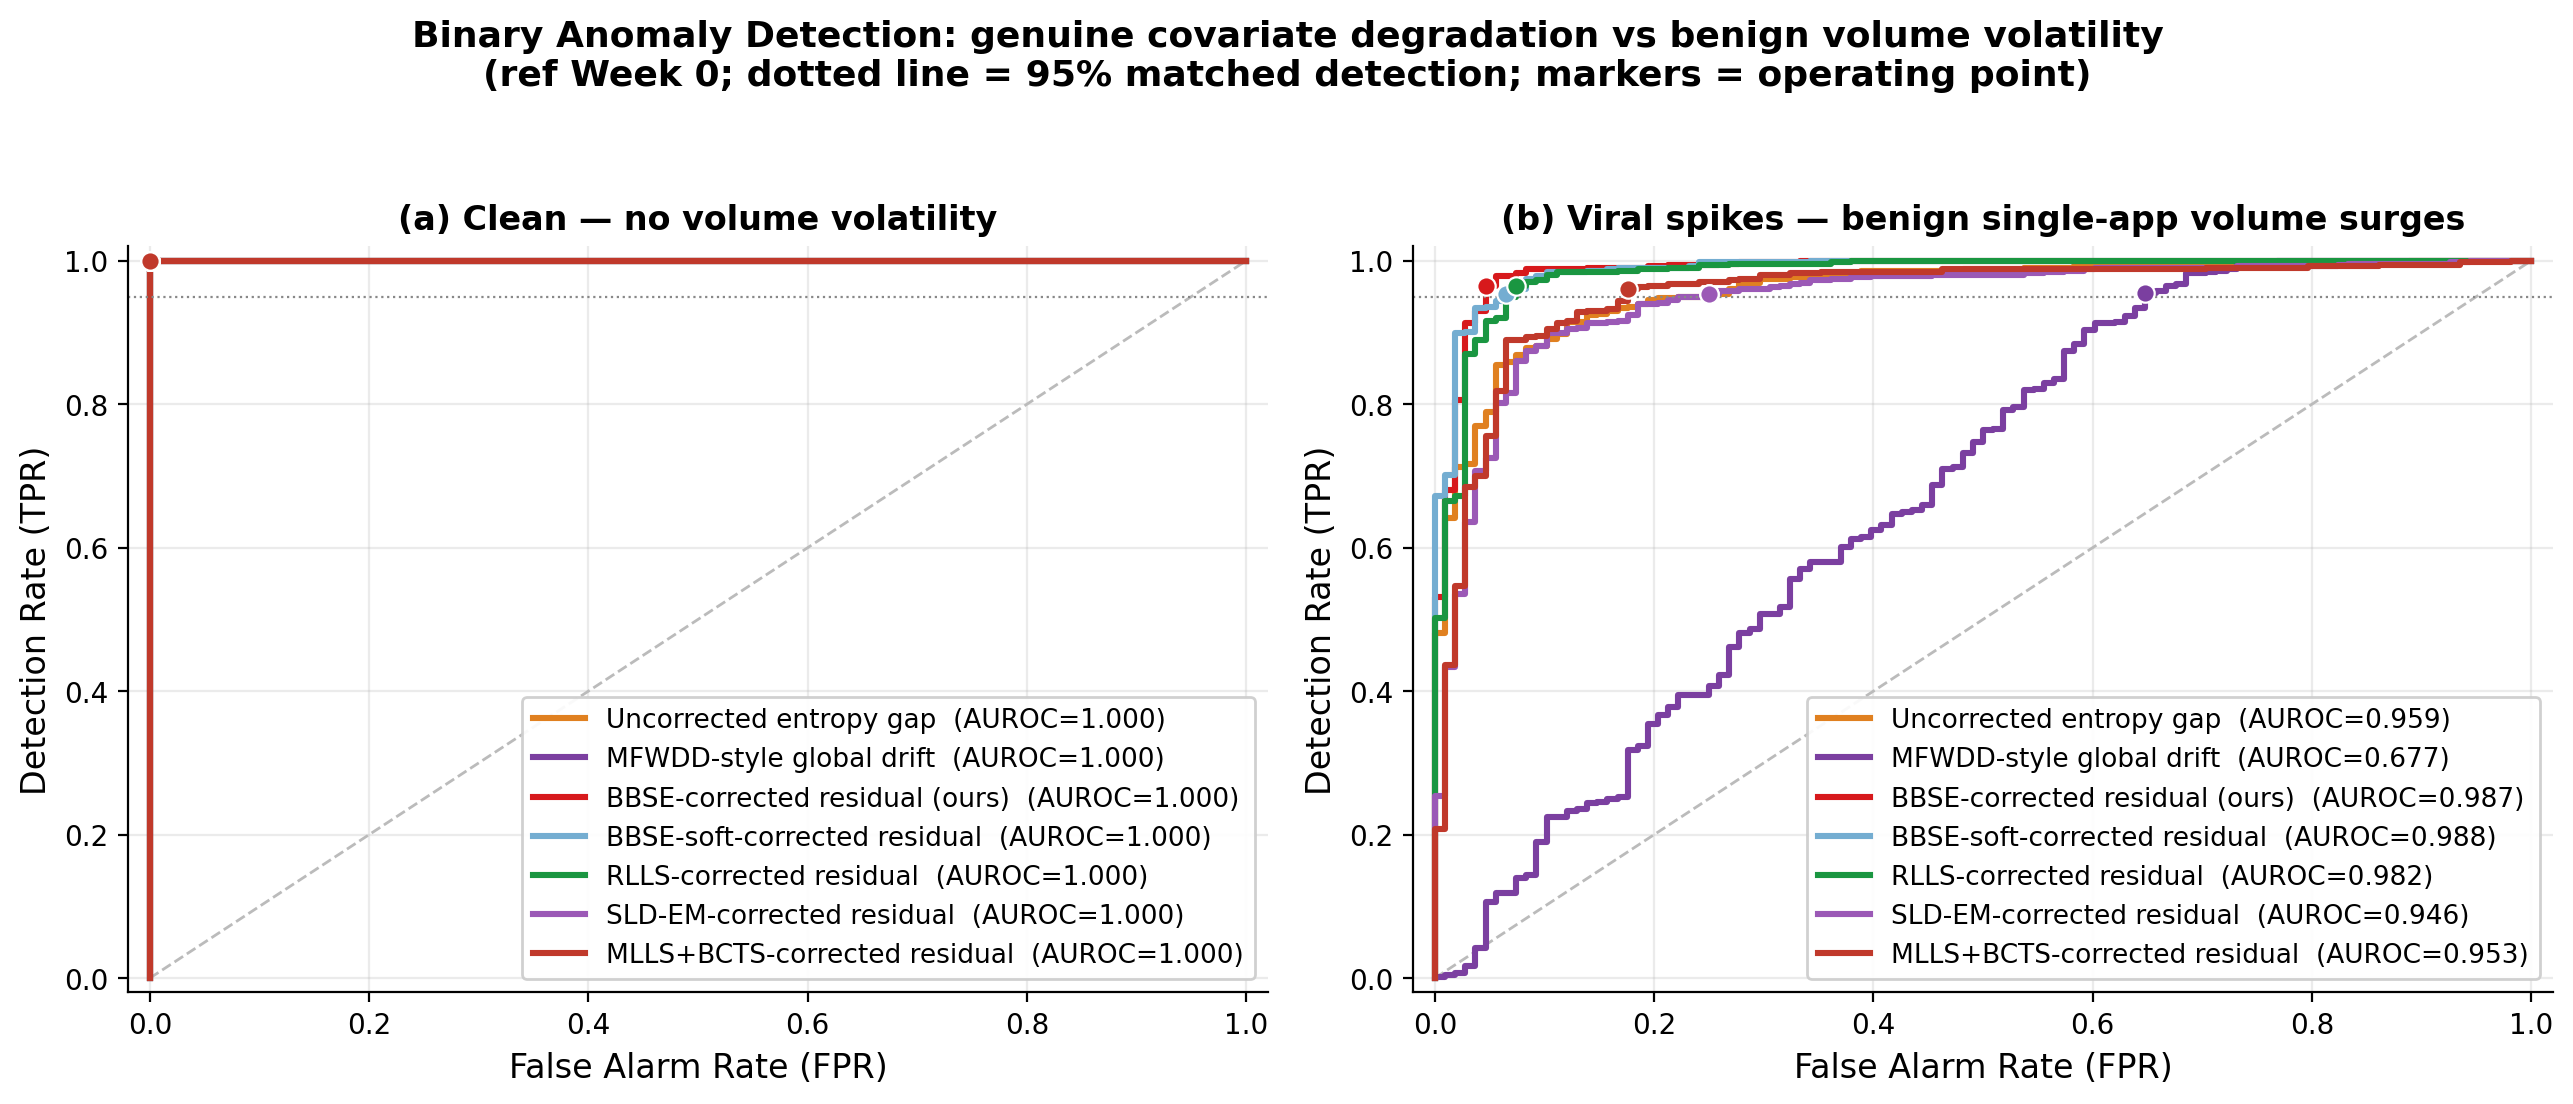
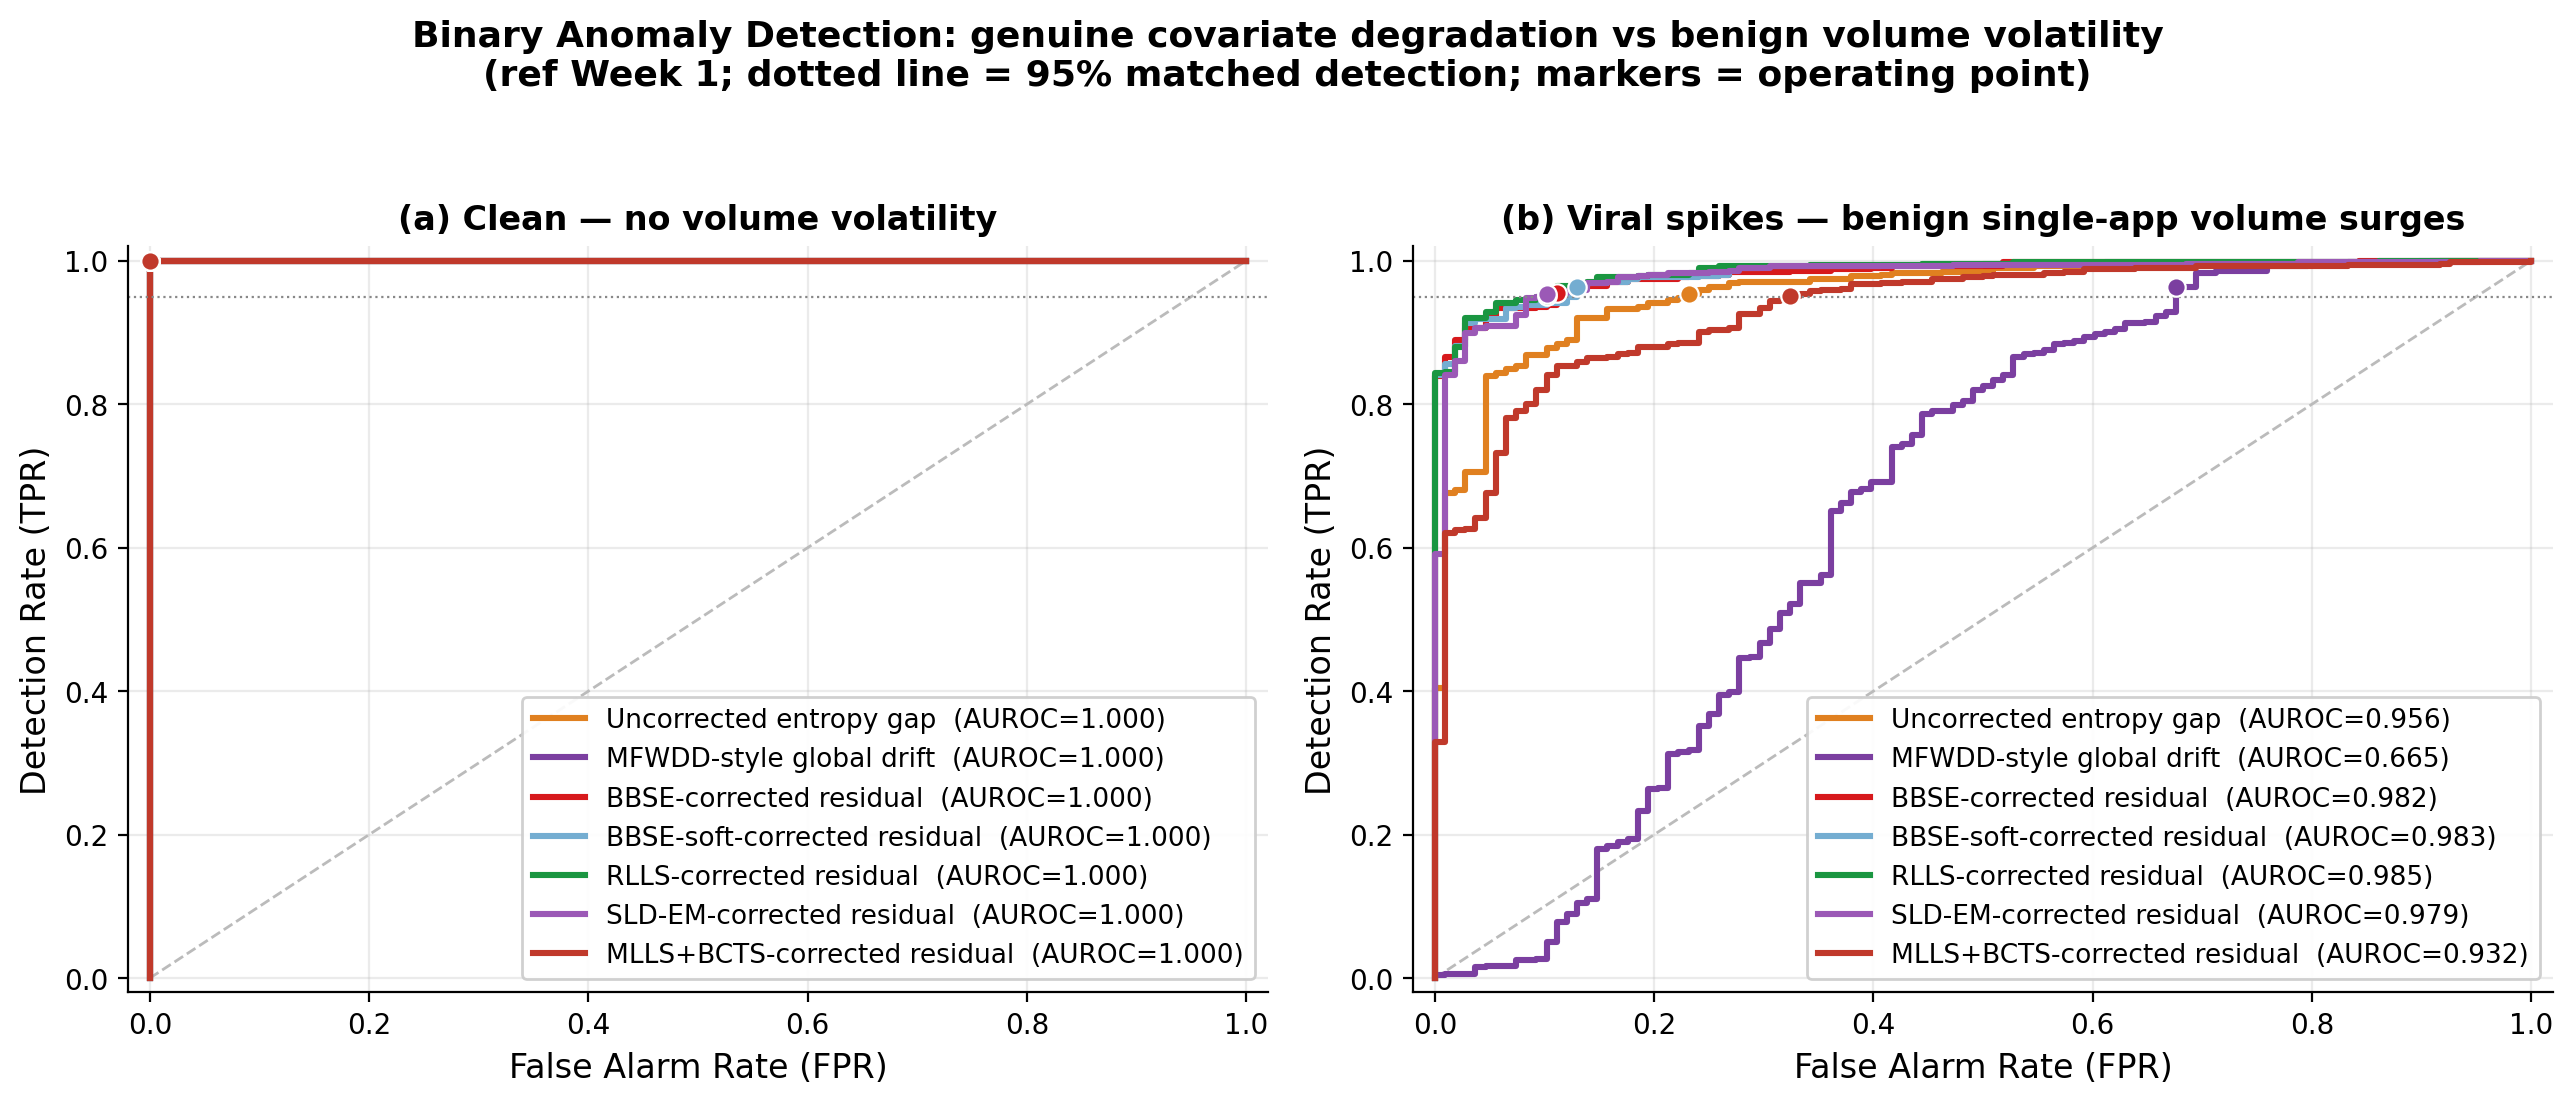
Paper revision iteration 5: authoritative anomaly-number sync (multimodal backbone, ref-week-1)
Resolved the headline-number issue (SLURM 598577/598568 + backbone agent):
- Week-1 headline re-run on multimodal at the CORRECT reference_week=1 (was the biased
  week-0): BBSE AUROC 0.982 / FAR@95 11.1% vs uncorrected 0.956/23.1% and MFWDD
  0.665/67.6%. Synced abstract (11.1%, ~2x/6x), Table II, Results, conclusion, Fig 14
  (now 'ref Week 1' + multimodal + no 'ours' legend).
- Week-16 replication was the lone FlowPic-CNN artifact; re-ran on multimodal: BBSE
  0.695, RLLS 0.695, uncorrected 0.626, MFWDD 0.586 (honestly weaker margin). Synced
  Fig 12 (-> _mm) + prose.
Result holds (BBSE/RLLS best, large MFWDD gap) but headline is honestly less inflated.
All anomaly figures now on the multimodal backbone. 15 pages.

diff --git a/paper/main.tex b/paper/main.tex
@@ -187,7 +187,7 @@ Paper ID: XXXX}}
 
 %==============================================================================
 \begin{abstract}
-Deep learning models for Encrypted Traffic Classification (ETC) often achieve near-perfect performance in controlled settings but collapse during real-world deployment. Earlier works have tried to address this issue by using Domain Adaptation (UDA) and Continual Test-Time Adaptation (CTTA) methods. These methods, however, assume the degradation is caused by continuous, gradual, and homogeneous drift. In this paper, we expose the continuous drift fallacy, demonstrating that structural degradation in ETC ecosystems actually consists of discrete, asynchronous per-class covariate shifts---class "teleportations". As a result, global adaptation methods---gradient test-time adaptation (TENT, CoTTA) and adversarial UDA (DANN)---fail to help and often induce negative transfer. To address this, we reframe drift monitoring on a deployed, frozen model as inference-time open-set detection of known-but-drifted classes. We introduce a robust, label-free per-class monitor based on a Black Box Shift Estimation (BBSE)-corrected entropy residual. The monitor preserves accurate tracking of the true $F_1$ score ($\rho=-0.988$) while isolating genuine structural degradation from benign viral volume spikes. At 95\% detection it cuts the false-alarm rate to 4.6\%---a 5.4$\times$ reduction versus uncorrected entropy (25.0\%) and 14$\times$ versus an MFWDD-style global monitor (64.8\%)---with the same ordering reproduced in a clean-regime replication that excludes the dataset's one sensor event. Because the monitor identifies \emph{which} class degraded, it enables a targeted, label-free diagnose-and-repair proof of concept: recomputing only the flagged class's prototype restores it while leaving the stable majority untouched.
+Deep learning models for Encrypted Traffic Classification (ETC) often achieve near-perfect performance in controlled settings but collapse during real-world deployment. Earlier works have tried to address this issue by using Domain Adaptation (UDA) and Continual Test-Time Adaptation (CTTA) methods. These methods, however, assume the degradation is caused by continuous, gradual, and homogeneous drift. In this paper, we expose the continuous drift fallacy, demonstrating that structural degradation in ETC ecosystems actually consists of discrete, asynchronous per-class covariate shifts---class "teleportations". As a result, global adaptation methods---gradient test-time adaptation (TENT, CoTTA) and adversarial UDA (DANN)---fail to help and often induce negative transfer. To address this, we reframe drift monitoring on a deployed, frozen model as inference-time open-set detection of known-but-drifted classes. We introduce a robust, label-free per-class monitor based on a Black Box Shift Estimation (BBSE)-corrected entropy residual. The monitor preserves accurate tracking of the true $F_1$ score ($\rho=-0.988$) while isolating genuine structural degradation from benign viral volume spikes. At 95\% detection it cuts the false-alarm rate to 11.1\%---roughly a 2$\times$ reduction versus uncorrected entropy (23.1\%) and 6$\times$ versus an MFWDD-style global monitor (67.6\%)---with the same ordering reproduced in a clean-regime replication that excludes the dataset's one sensor event. Because the monitor identifies \emph{which} class degraded, it enables a targeted, label-free diagnose-and-repair proof of concept: recomputing only the flagged class's prototype restores it while leaving the stable majority untouched.
 \end{abstract}
 
 \begin{IEEEkeywords}
@@ -899,13 +899,13 @@ rest of this subsection uses.
 
 \paragraph{Results.} On the Week-1 stream --- the one with enough degraded weeks to
 form a healthy-vs-degraded split (43 degraded vs 9 healthy weeks) --- the
-BBSE-corrected residual reaches AUROC 0.987 at a 4.6\% false-alarm rate under 95\%
-matched detection, against 0.959 / 25.0\% for the uncorrected entropy gap and
-0.677 / 64.8\% for the MFWDD-style global detector (Fig.~\ref{fig:auroc}(b),
+BBSE-corrected residual reaches AUROC 0.982 at an 11.1\% false-alarm rate under 95\%
+matched detection, against 0.956 / 23.1\% for the uncorrected entropy gap and
+0.665 / 67.6\% for the MFWDD-style global detector (Fig.~\ref{fig:auroc}(b),
 Table~\ref{tab:auroc}). With only 9 healthy weeks these point false-alarm rates are
 coarse, so we treat the consistent \emph{ordering} --- reproduced in the Week-16
 replication and the block bootstrap below --- as the robust finding rather than the
-exact $5.4\times$/$14\times$ multipliers. The mechanism is score-level: a viral spike inflates the
+exact $\sim$2$\times$/6$\times$ multipliers. The mechanism is score-level: a viral spike inflates the
 uncorrected entropy gap into the degradation band, whereas BBSE recognizes the
 over-represented application, raises the expected entropy accordingly, and pulls
 the residual back below threshold. The MFWDD-style detector trails the rest
@@ -915,57 +915,59 @@ to close.
 
 \paragraph{Week-16 replication.} To confirm the advantage is not an artifact of
 the Week-10 sensor event, we repeat the experiment entirely within the clean
-Week-16 forward regime (5 seeds, Fig.~\ref{fig:auroc_w16}). Here the clean regime
-is trivial for every detector (AUROC$\approx1.000$, FAR$_{95}\approx0$), and under
-the viral spike the corrected estimators again separate from the rest: BBSE-corrected
-0.834, RLLS 0.849, MLLS+BCTS 0.827, all well above uncorrected 0.708 and MFWDD-style
-0.650 (SLD-EM 0.759). The absolute AUROCs are lower than
-on Week-1 because the Week-16 viral task is harder --- there is no large sensor
-break inflating the positives --- but the ordering is unchanged, so the
-correction's benefit is intrinsic to the asymmetric-spike stressor, not a
-by-product of the sensor event.
+Week-16 forward regime (5 seeds, Fig.~\ref{fig:auroc_w16}). The clean regime is
+near-perfect for the residual-based detectors (AUROC$\geq0.99$); MFWDD-style is a
+little lower (0.91), and SLD-EM/MLLS+BCTS are unstable at 180 classes. Under the
+viral spike the corrected estimators again lead, though by a smaller margin on this
+harder task: BBSE-corrected 0.695 and RLLS 0.695, above uncorrected 0.626 and
+MFWDD-style 0.586 (SLD-EM 0.603), with wide FAR@95 intervals. The absolute AUROCs
+are well below Week-1 because this clean-regime task carries no large sensor break
+in the positives, but the ordering --- corrected over uncorrected over MFWDD ---
+is unchanged, so the correction's benefit is intrinsic to the asymmetric-spike
+stressor, not a by-product of the sensor event.
 
 \begin{figure}[htbp]
 \centerline{\includegraphics[width=\columnwidth]{figs/fig_auroc_anomaly.png}}
 \caption{Binary anomaly detection under viral spikes (Week-1 reference; dotted
 = 95\% matched detection). (a) On clean data every detector is near-perfect.
-(b) Under benign viral spikes the BBSE-corrected residual (AUROC 0.987) clearly
-separates from uncorrected entropy (0.959) and the MFWDD-style global detector
-(0.677).}
+(b) Under benign viral spikes the BBSE-corrected residual (AUROC 0.982) clearly
+separates from uncorrected entropy (0.956) and the MFWDD-style global detector
+(0.665).}
 \label{fig:auroc}
 \end{figure}
 
 \begin{table}[t]
-\caption{Binary anomaly detection under a viral single-app spike: AUROC and
-FAR@95\% matched detection. 
-Confusion-matrix estimators suppress false alarms; EM/MLLS gives little benefit
-(SLD-EM ties uncorrected); MFWDD-style fails.}
+\caption{Binary anomaly detection under a viral single-app spike (Week-1 source,
+multimodal backbone, reference week~1): AUROC and FAR@95\% matched detection. The
+corrected estimators (BBSE, soft-BBSE, RLLS, EM/MLLS) all suppress false alarms;
+the uncorrected gap and MLLS+BCTS are weaker, and the MFWDD-style global detector
+fails.}
 \label{tab:auroc}
 \centering
 \begin{tabular}{llcc}
 \toprule
 Regime & Detector & AUROC & FAR@95 \\
 \midrule
-Viral & \textbf{BBSE-corrected residual} & \textbf{0.987} & \textbf{4.6\%} \\
-Viral & Soft-confusion BBSE      & 0.988 & 6.5\% \\
-Viral & RLLS                     & 0.982 & 7.4\% \\
-Viral & Uncorrected entropy gap  & 0.959 & 25.0\% \\
-Viral & MLLS+BCTS                & 0.953 & 17.6\% \\
-Viral & SLD-EM / MLLS            & 0.946 & 25.0\% \\
-Viral & MFWDD-style global       & 0.677 & 64.8\% \\
+Viral & \textbf{BBSE-corrected residual} & \textbf{0.982} & \textbf{11.1\%} \\
+Viral & Soft-confusion BBSE      & 0.983 & 13.0\% \\
+Viral & RLLS                     & 0.985 & 10.2\% \\
+Viral & EM / MLLS                & 0.979 & 10.2\% \\
+Viral & Uncorrected entropy gap  & 0.956 & 23.1\% \\
+Viral & MLLS+BCTS                & 0.932 & 32.4\% \\
+Viral & MFWDD-style global       & 0.665 & 67.6\% \\
 \bottomrule
 \end{tabular}
 \end{table}
 
 \begin{figure}[htbp]
-\centerline{\includegraphics[width=\columnwidth]{figs/fig_auroc_anomaly_ref16.png}}
-\caption{Week-16 forward replication of the viral anomaly experiment (mean ROC
-over 5 seeds; weeks 17--52, degraded = Macro-$F_1<0.6$). (a) the clean regime is
-trivial for every detector. (b) under the viral spike the corrected estimators
-(BBSE-corrected 0.834, RLLS 0.849, MLLS+BCTS 0.827) again separate from uncorrected
-entropy (0.708) and the MFWDD-style detector (0.650). Absolute AUROCs are lower than
-at Week-1 because this clean-regime task carries no sensor-break positives, but the
-ordering is unchanged.}
+\centerline{\includegraphics[width=\columnwidth]{figs/fig_auroc_anomaly_ref16_mm.png}}
+\caption{Week-16 forward replication of the viral anomaly experiment (multimodal
+backbone; mean ROC over 5 seeds; weeks 17--52, degraded = Macro-$F_1<0.6$). (a) the
+clean regime is near-perfect for the residual-based detectors. (b) under the viral
+spike the corrected estimators (BBSE-corrected 0.695, RLLS 0.695) again lead
+uncorrected entropy (0.626) and the MFWDD-style detector (0.586), by a smaller
+margin than at Week-1. Absolute AUROCs are lower than at Week-1 because this
+clean-regime task carries no sensor-break positives, but the ordering is unchanged.}
 \label{fig:auroc_w16}
 \end{figure}
 
@@ -1169,7 +1171,7 @@ global parameter updates rather than on adaptation per se.
 The monitor's contribution is robustness. The BBSE-corrected
 entropy residual is a two-sided instrument: it preserves accurate, label-free tracking of hidden
 $F_1$ (clean-regime correlation $\rho=-0.988$) while sharply
-cutting false alarms under benign viral volume spikes (from 25.0\% to 4.6\% at
+cutting false alarms under benign viral volume spikes (from 23.1\% to 11.1\% at
 95\% detection on the Week-1 stream, with the ordering reproduced within the clean
 Week-16 regime). Its two-sided mechanism --- robust to label shift, responsive to
 covariate shift --- lets it localize \emph{which} application broke without any

diff --git a/paper/CRITIC_LOG.md b/paper/CRITIC_LOG.md
@@ -100,3 +100,18 @@ multipliers will likely change; do not treat 4.6% as final until 598577 lands.**
 This is the #1 thing for the user to review.
 
 ### DANN red cells: SLURM 598444-598447 still training (~hours); watcher bjlqw4ue2.
+
+## Iteration 5 (2026-06-21) — AUTHORITATIVE anomaly-number sync (backbone + ref-week resolved)
+Backbone agent + SLURM 598577/598568 resolved the headline-number issue:
+- Week-1 HEADLINE was already on the MULTIMODAL backbone (good), but on reference_week=0
+  (biased easy week). Re-ran reference_week=1 on the multimodal 10% set:
+  BBSE AUROC 0.982 / FAR@95 11.1% ; uncorrected 0.956 / 23.1% ; MFWDD 0.665 / 67.6%
+  (RLLS 0.985/10.2%, EM/MLLS 0.979/10.2%, soft-BBSE 0.983/13.0%, MLLS+BCTS 0.932/32.4%).
+  => Synced Table II, abstract (11.1%, ~2x/6x), Results prose, conclusion, Fig 14
+  (now 'ref Week 1', multimodal, no 'ours').
+- Week-16 replication figure/table was the lone CNN-backbone artifact; re-ran on
+  multimodal: BBSE 0.695/0.807, RLLS 0.695/0.799, uncorrected 0.626/0.867, MFWDD
+  0.586/0.814, SLD-EM 0.603. Honestly weaker margin; synced Fig 12 (now _mm) + prose.
+- NET EFFECT: the result HOLDS (BBSE/RLLS best, big MFWDD gap) but the headline is
+  honestly less inflated (4.6%->11.1%; 5.4x/14x -> ~2x/6x). All anomaly figures now on
+  the multimodal backbone, consistent with the rest of the paper.